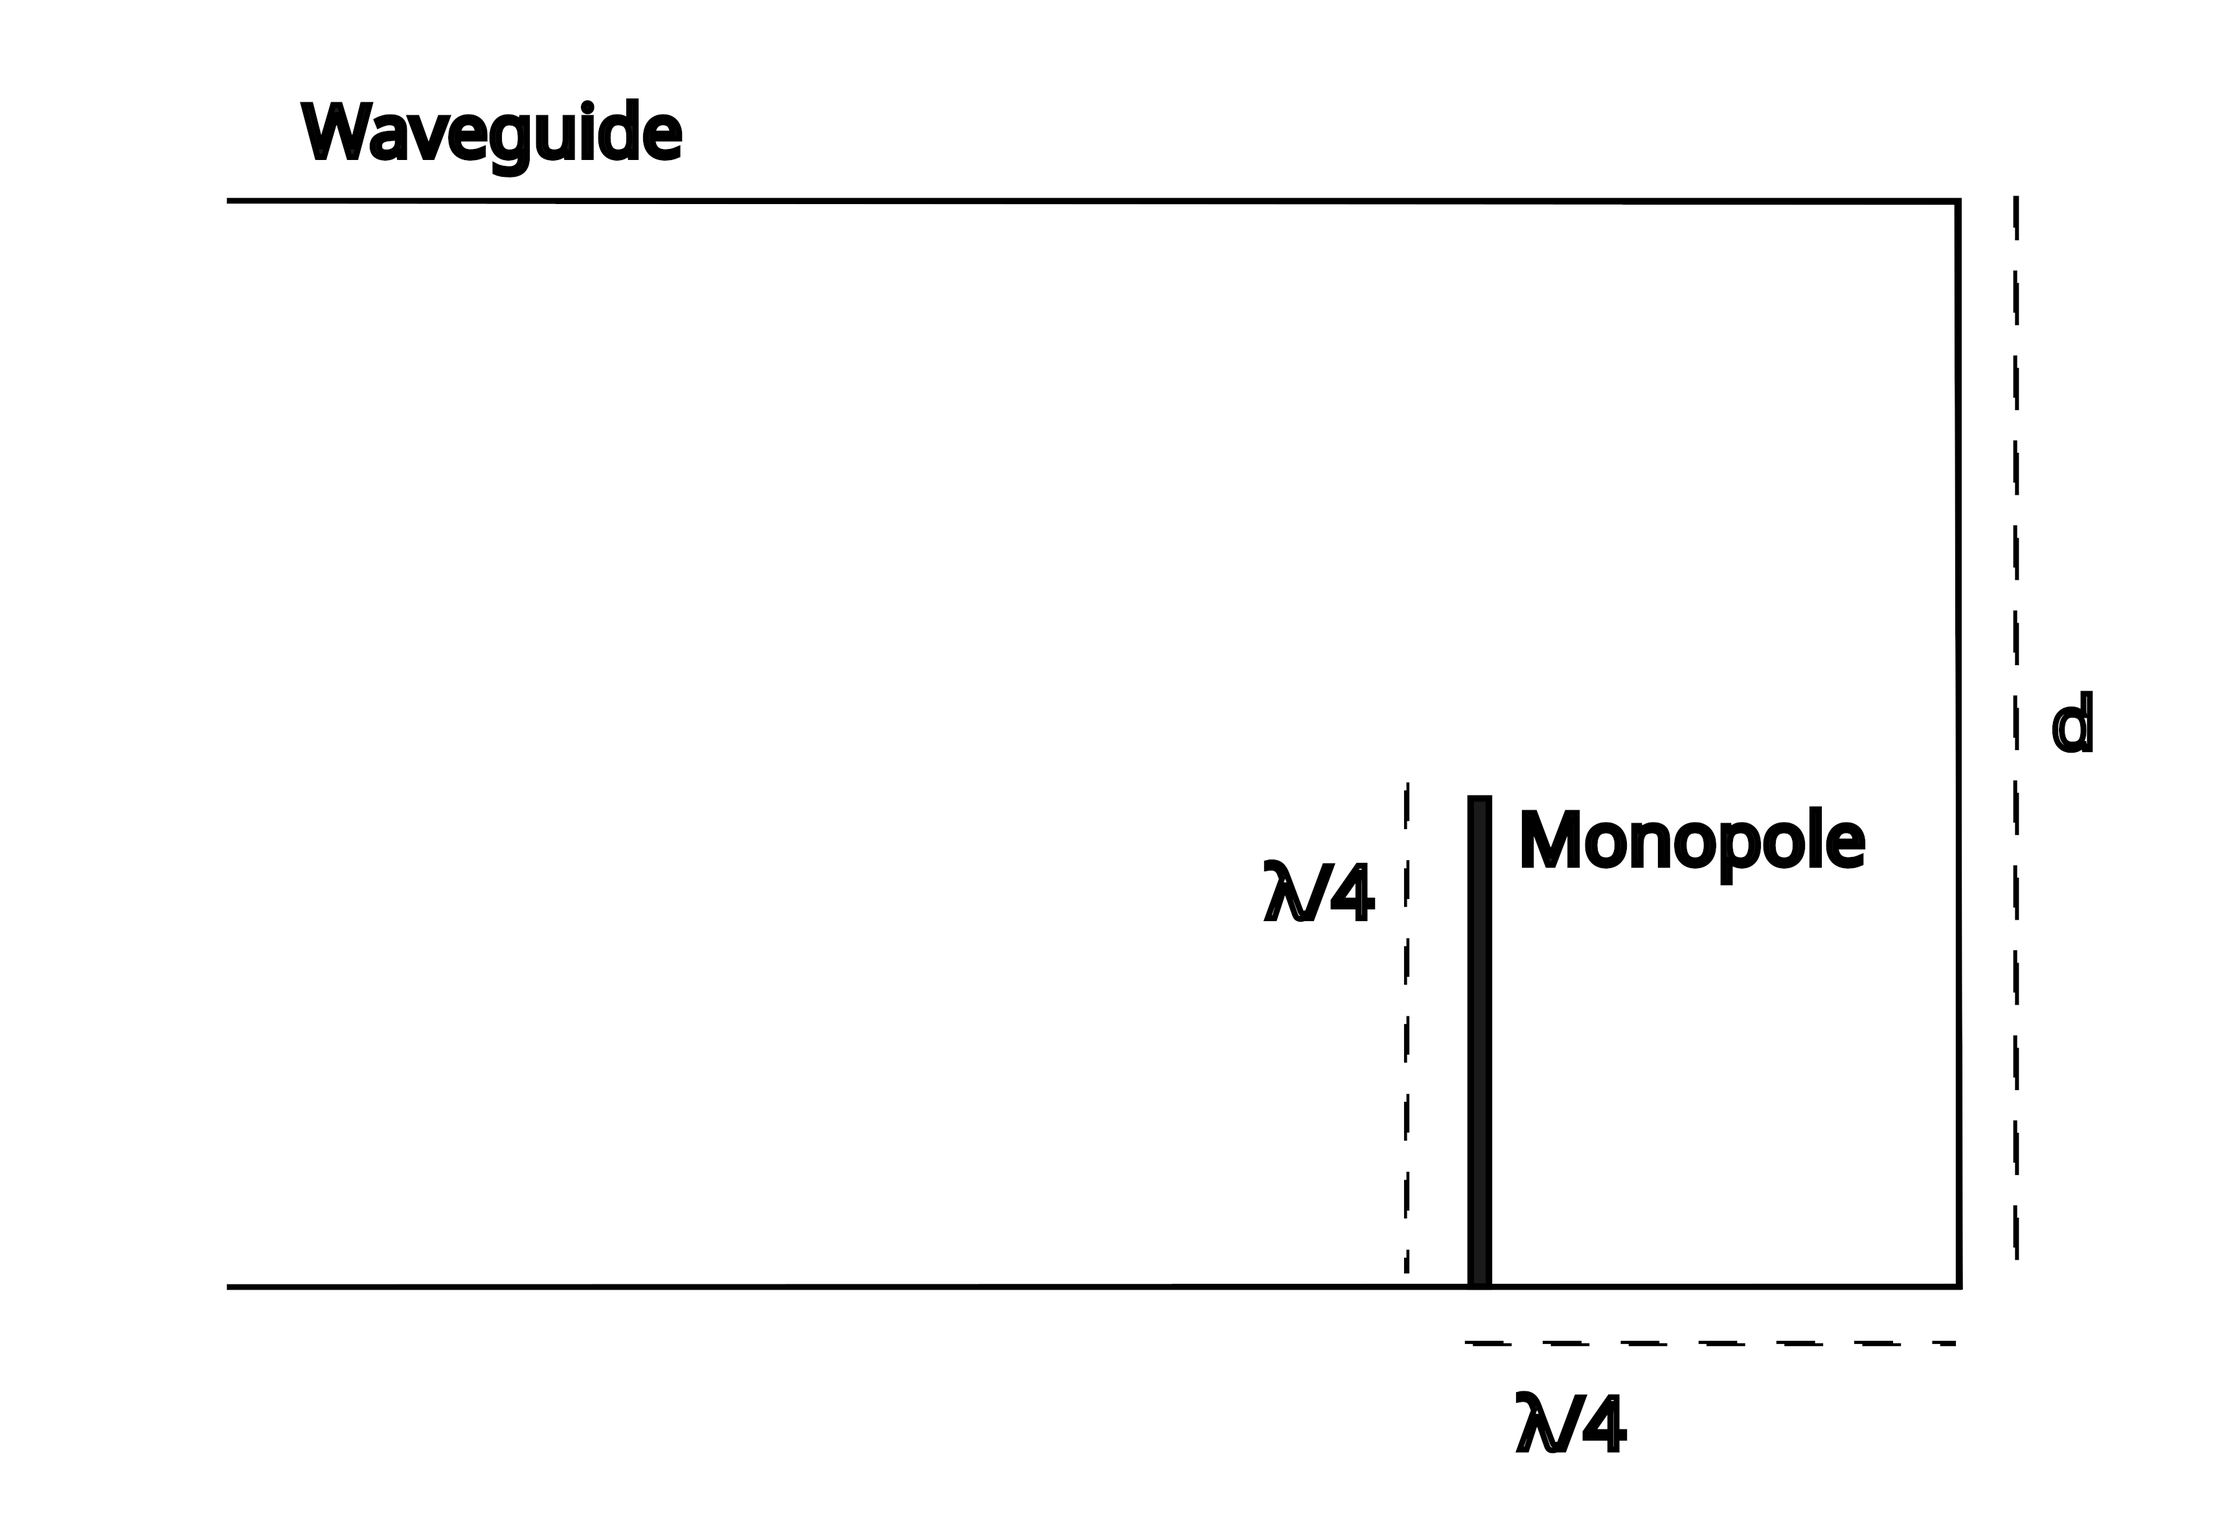
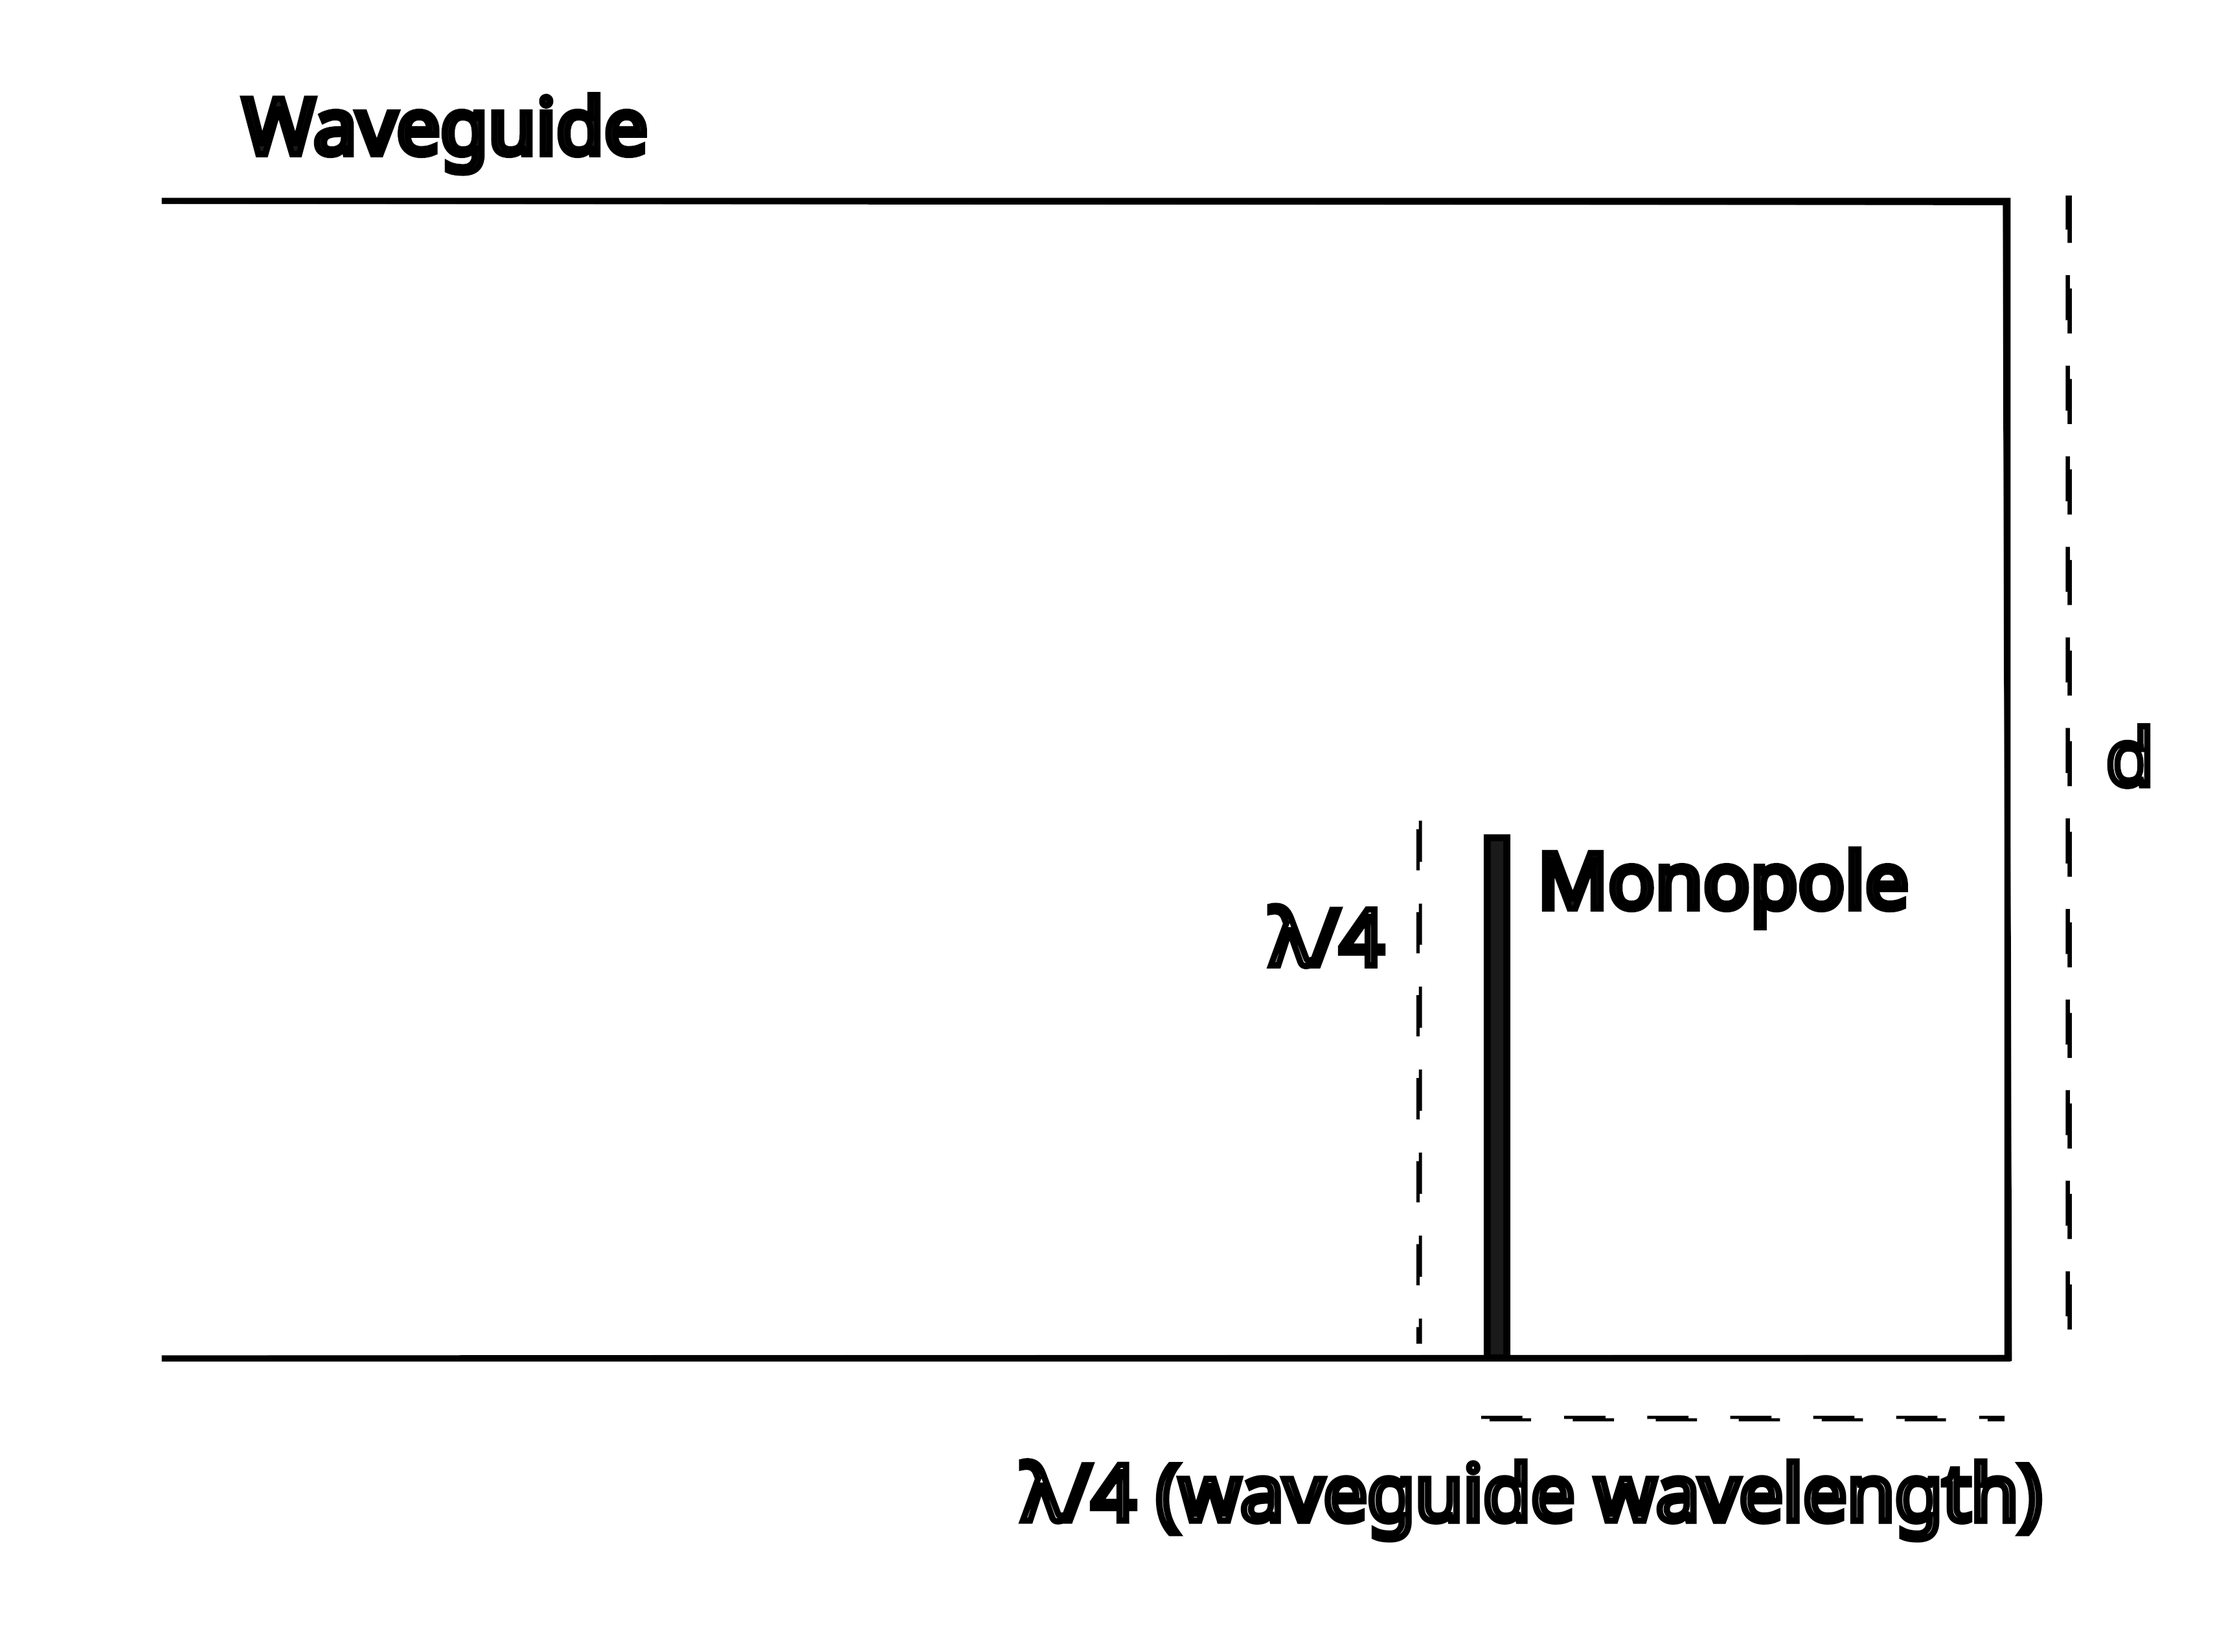
Include waveguide effects on speed of light

Changed region(s): [[0.0931, 0.0623, 0.9927, 0.8409], [0.4653, 0.8721, 0.9306, 0.9655]]

diff --git a/content/tutorials/super_simple_directional_microwave_antenna/index.md b/content/tutorials/super_simple_directional_microwave_antenna/index.md
@@ -24,28 +24,59 @@ For TM0,1, the minimum frequency \\( \frac{2.403 c} { \pi d \sqrt{k} } \\).
 
 {{<rawhtml>}}<sub>Source: "Microwave Engineering" by Pozar</sub>{{</rawhtml>}}
 
-We can use this to compute a diameter range for the antenna for any frequency: \\( \frac{1.841  c}{\pi f} < d < \frac{2.403  c}{\pi f} \\).
+We can use this to compute a diameter range for the antenna for any frequency: 
+
+$$  \frac{1.841  c}{\pi f} < d < \frac{2.403  c}{\pi f} $$
 
 The lower limit is hard, it will not work *at all* with a smaller diameter, the upper limit is less important, the antenna will simply lose some efficiency.
-It is better to have the antenna larger than the TE1,1 cutoff, as it becomes easer for the waves to propigate.
-The ideal diameter will be the TM0,1 cuttoff as this will provide the best possible impedence match.
+In fact, ideal performance will be at the TM0,1 cutoff, aim there when making/finding a waveguide.
 
 Here is a table of wavelengths and ideal diameters for an antenna for WiFi and a few satellite downlinks (these make great DIY feedhorns for dish antennas).
 For wide bands like 5 GHz WiFi, I have used the lower frequency, as these antennas are more effected by being to small than too big
-|Use|Frequency|Wavelength (λ)|Min Diameter|Max Diameter|
+|Use|Frequency|Wavelength (λ)|Min Possible Diameter, use one significantly larger|Ideal Diameter|
 |--|--|--|-|-|
 |**2.4 GHz WiFi**|2412 MHz|120 mm|73 mm|95 mm|
 |**5 GHz WiFi**|5150 MHz|58 mm|34 mm|44 mm|
 |GOES 16 downlink|1686.6 MHz|177 mm|104 mm|136 mm|
-|C Band downlink (lower)|3700 MHz|81 mm|47 mm|62 mm|
-|C Band downlink (upper)|4000 MHz|75 mm|43 mm|57 mm|
-|Ku Band|12000 MHz|25 mm|14 mm|19 mm|
+
+The length of the antenna is not critical, but a longer antenna will have better directivity, I recommended at least 3/4 wavelength.
 
 To efficiently create a wave in the TE1,1 mode, you need monopole antenna that is a quarter of a wavelength long, and spaced a quarter of a wavelength from the closed end of the can.
 The reason for this is that the wave, as it travels towards the closed end, is phase shifted (delayed) by 90 deg (1/4 of a cycle), then the reflection is phase shifted by 180 deg, and finally by another 90 deg during the return trip.
 Once the reflected wave reaches the monopole, it is been shifted 360 deg and syncs up with the radiated signal, creating a stronger signal.
 
-The length of the antenna is not critical, but a longer antenna will have better directivity, I recommended at least 3/4 wavelength.
+
+<!--
+## Impedence conseratons [UPDATE 2023-05]
+
+I haven't realy mentioned Impedence here.
+In conventional electronics, Impedence (Z) is how much a component impedes current flow for AC.
+Mesured in Ohms(Ω), unlike resistance, it is a complex number, meaning it has two parts, real (in phase current flow, highest at the highest voltage) and imaginary (out of phase current, does not draw power).
+Overall impedence is equal to 
+For an antenna, we want it to present
+-->
+
+## Speed of light in a waveguide
+
+One thing that complicates the math here is that in a waveguide, the *phase velocity* of light is *higher* than the normal speed of light.
+Phase velocity is the speed at which a point of constant phase (voltage and magnetic feild) moves in the waveguide.
+
+$$ v_{phase} = \frac{c}{\sqrt(1-(f_{cutoff} / f ))} $$
+
+This means that the optimal place for the monople antenna will be a bit further than half a wavelength outside of the waveguide (in free space).
+
+$$ \lambda_{waveguide} = \frac{c}{f \sqrt(1-(f_{cutoff} / f ))} $$
+
+If f is higher than the cuttoff freqency, for example for a 95mm waveguide at 2410 MHz, then as \\( f_{cuttof} = \frac{1.841 c} { \pi d }\\) for TE1,1, the cuttoff freqency is 1851 GHz.
+The means the wavelenth in the guide is *twice* that in free space. This would leads to a 90 degree phase shift between the radated singal and the reflected signal in the antenna, leading to a worse impedence match and less radiated signal.
+This needs to be compensated for to get good performance. (You can use the second calculator tool at the bottom)
+
+Side Note: Does this violate the laws of physics? 
+No, becuase while the phase velocity is faster than the speed of light, you can't send information any faster than the speed of light.
+Similar to how a dot from a laser pointer can "move" faster than the speed of light.
+The actual speed of a pulse in a waveguide also depends on the freqency, but is always below c.
+This has the intresting side effect that the phases and time of arival of a signal will change as it travels trough a waveguide, this effect is stronger the closer to the cutoff freqency the signal is.
+This is called dispersion and can cause problems for wideband signals, and the solution here is build the antenna with a higher diameter, reducing the differences in propigation speed.
 
 # Construction 
 
@@ -81,9 +112,9 @@ A short one (3/4 wavelength total length) makes a good DIY feedhorn for a a dish
 
 You can also turn one into a horn antenna, by adding a metal horn onto the end of the waveguide.
 
-# Calculator
-
-This is a tool for quickly calculating the dimensions of the antenna:
+# Diameter calculator
+A
+This is a tool for quickly calculating the the waveguide and monopole sizes of the antenna.
 
 {{< rawhtml >}} 
 
@@ -96,14 +127,14 @@ function update() {
     var pi = 3.14
     var freq = +document.getElementById("freq").value;
     var wavelength = c/freq;
-    document.getElementById("wavelength").innerText = round(wavelength) + "mm";
-    document.getElementById("monopole").innerText = round(wavelength/4) + "mm";
-    document.getElementById("minlength").innerText = round(wavelength*3/4) + "mm";
+    document.getElementById("wavelength").innerText = round(wavelength) + " mm";
+    document.getElementById("monopole").innerText = round(wavelength/4) + " mm";
+    document.getElementById("minlength").innerText = round(wavelength*3/4) + " mm";
 
     var lower_limit = 1.841*c/(pi*freq);
     var upper_limit = 2.403*c/(pi*freq);
-    document.getElementById("mind").innerText = round(lower_limit) + "mm";
-    document.getElementById("maxd").innerText = round(upper_limit) + "mm";
+    document.getElementById("mind").innerText = round(lower_limit) + " mm";
+    document.getElementById("maxd").innerText = round(upper_limit) + " mm";
 }
 
 </script>
@@ -114,11 +145,67 @@ function update() {
 
 |Parameter|Value|
 |-|-|
-|Wavelength|{{<rawhtml>}}<p id="wavelength"> - </p>{{</rawhtml>}}|
+|Wavelength in free space|{{<rawhtml>}}<p id="wavelength"> - </p>{{</rawhtml>}}|
 |Length of Monopole|{{<rawhtml>}}<p id="monopole">-</p>{{</rawhtml>}}|
-|Absolute min diameter (must a few % wider to work well)|{{<rawhtml>}}<p id="mind">-</p>{{</rawhtml>}}|
-|Max recommended/Ideal diameter|{{<rawhtml>}}<p id="maxd">-</p>{{</rawhtml>}}|
-|Minimum antenna length|{{<rawhtml>}}<p id="minlength">-</p>{{</rawhtml>}}|
+|Absolute min diameter, must significantly wider to work well|{{<rawhtml>}}<p id="mind">-</p>{{</rawhtml>}}|
+|Ideal diameter, performance falls off after this|{{<rawhtml>}}<p id="maxd">-</p>{{</rawhtml>}}|
+|Aproximate minimum antenna length|{{<rawhtml>}}<p id="minlength">-</p>{{</rawhtml>}}|
+
+
+# Monopole placement calculator
+
+This will compute the ideal location for the monople antenna
+
+{{< rawhtml >}} 
+
+<script>
+
+function update2() {
+    var c = 300 * 1000; // Speed of light, in mm MHz
+    var pi = 3.14;
+    var freq = +document.getElementById("freq2").value;
+    var diam = +document.getElementById("diam2").value;
+    
+    var cutoff = (1.841 * c) / (pi * diam);
+    
+    if ((cutoff/freq) < 4/5) {
+        document.getElementById("warning").innerText = "Warning, diameter is impracticaly low," + 
+        " this will lead to a compromized performance and require an impractical length,"+
+        " you should get a larger waveguideIf you want to contiune, place the monople 1/4 of the waveguide's length from the back.";
+    } else {
+        document.getElementById("warning").innerText = "";
+    }
+    
+    if (freq <= cutoff) {
+        document.getElementById("warning").innerText = "The diamerter is too low, THE ANTENNA WILL NOT WORK";
+    }
+
+    document.getElementById("te2").innerText = Math.round(cutoff) + " MHz";
+
+    var fr = cutoff/freq;
+    var wavelength = c/(freq*Math.sqrt(1 - (fr * fr)));
+    
+    document.getElementById("wavelength2").innerText = Math.round(wavelength) + " mm";
+    document.getElementById("quarter2").innerText = Math.round(wavelength/4) + " mm";
+    document.getElementById("l2").innerText = Math.round(wavelength*3/4) + " mm";
+
+}
+
+</script>
+
+<p>Enter frequency in MHz (use lowest frequency for large bands): <input id="freq2"/>, diameter in mm <input id="diam2"/> <button onclick='update2()'>Calculate</button></p>
+
+<p><b id="warning"></b></p>
+
+{{</ rawhtml >}} 
+
+|Parameter|Value|
+|-|-|
+|TE1,1 cutoff|{{<rawhtml>}}<p id="te2"> - </p>{{</rawhtml>}}|
+|Wavelength in waveguide|{{<rawhtml>}}<p id="wavelength2"> - </p>{{</rawhtml>}}|
+|Quarter Wavelength in waveguide/Optimal monopole spacing from back|{{<rawhtml>}}<p id="quarter2"> - </p>{{</rawhtml>}}|
+|Min total for good performance|{{<rawhtml>}}<p id="l2"> - </p>{{</rawhtml>}}|
+
+The monopoles length should be half of the free space wavelength, and never more than half the diameter of the waveguide.
 
 ![A diagram of the antenna, showing a 1/4 wavelength monopole and 1/4 wavelength spacing from the back of the can](cantenna.png)
-
